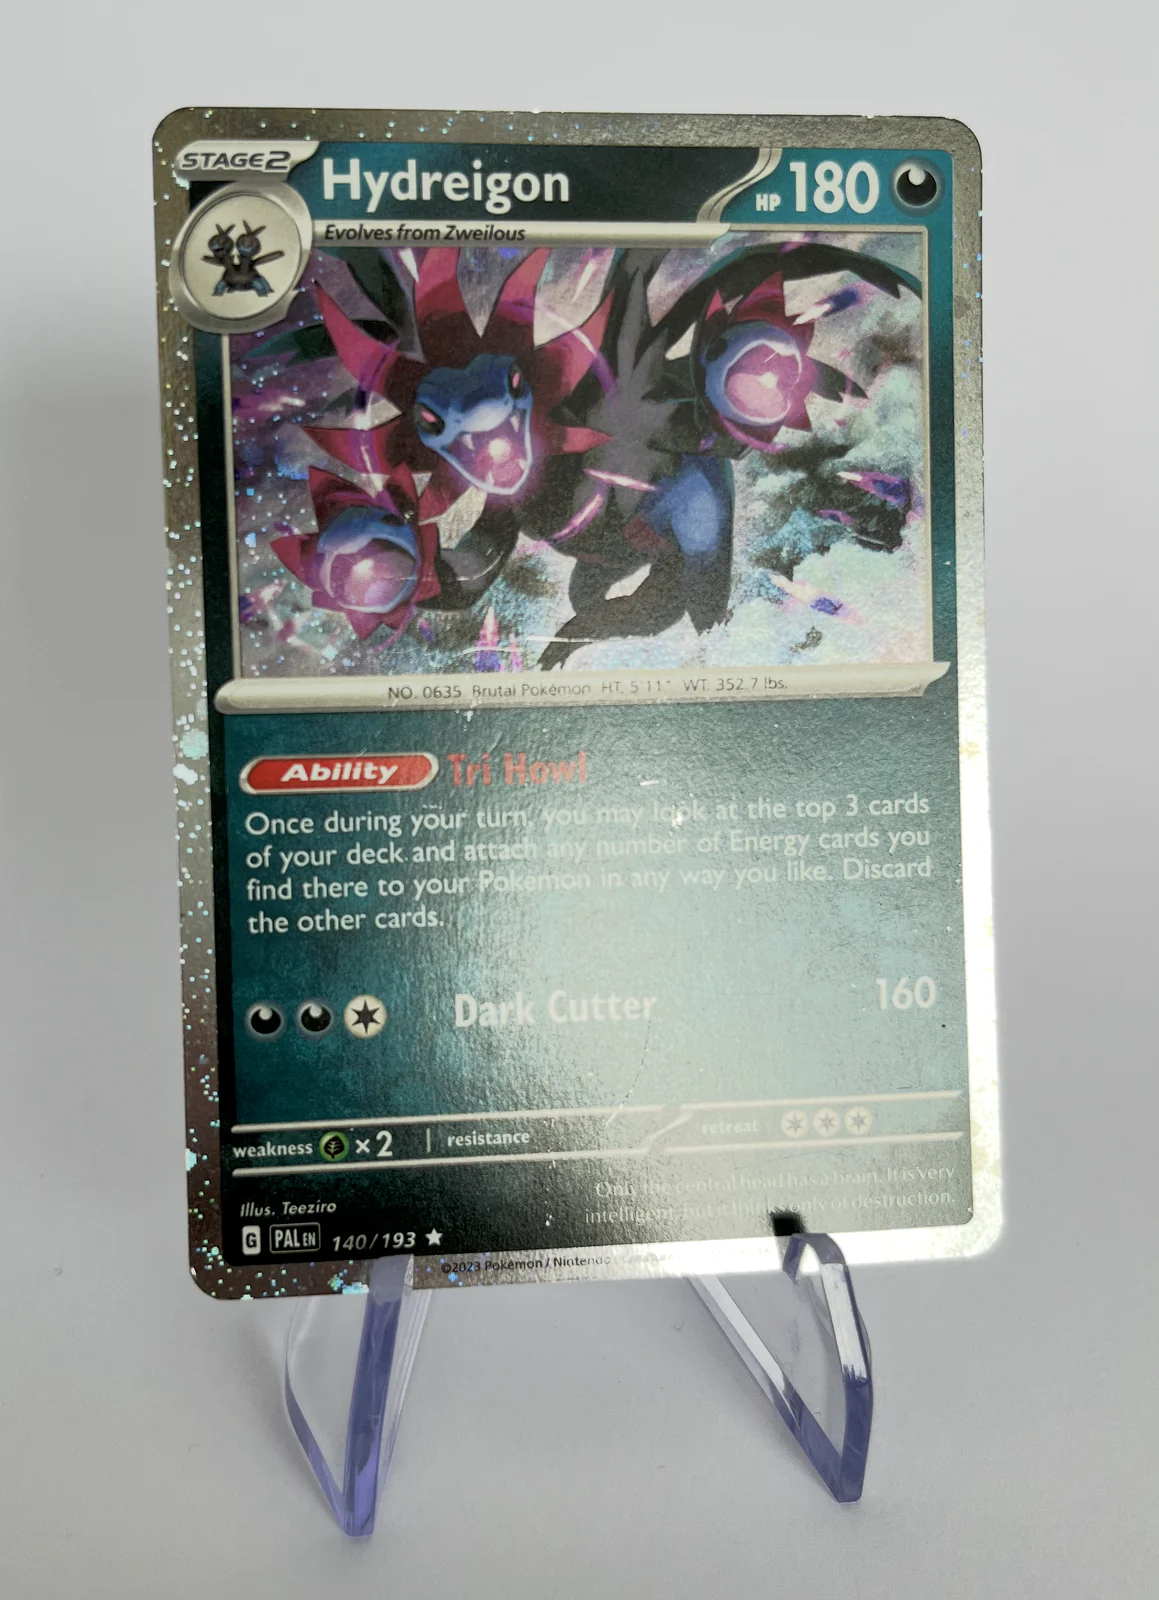
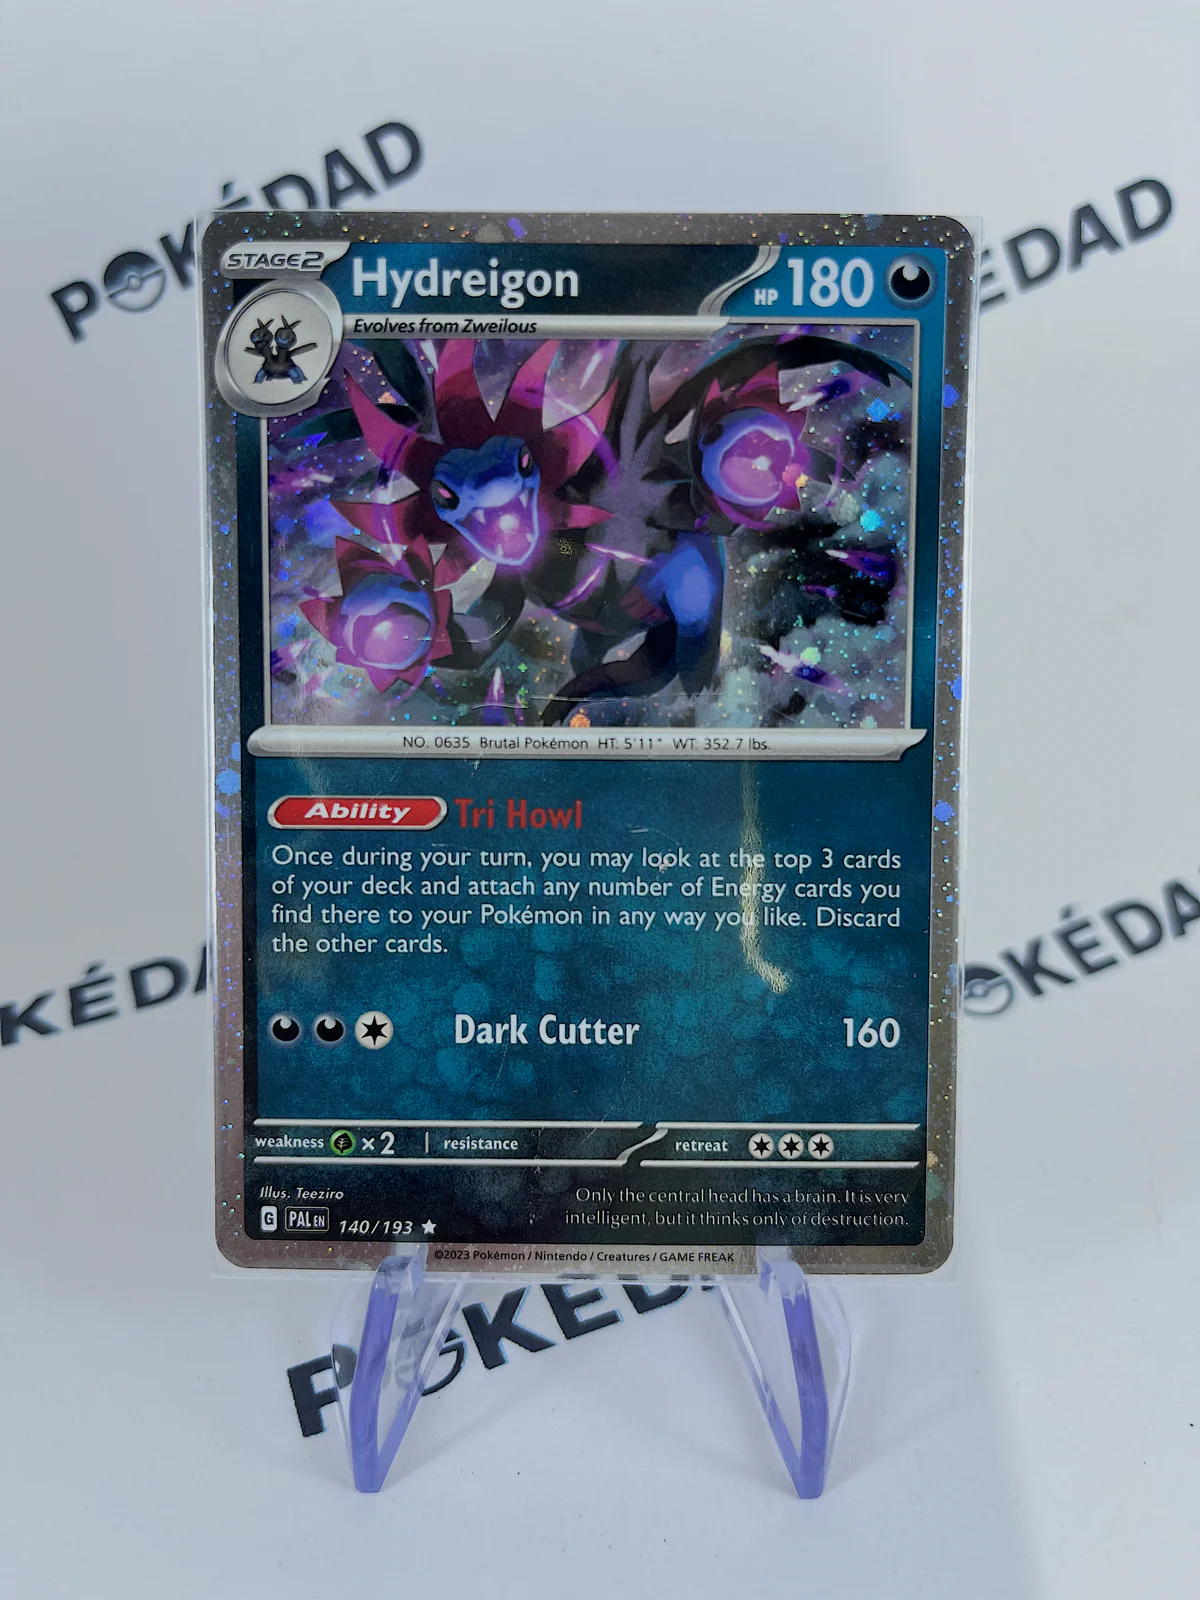
Import new card images

diff --git a/app/data/mega-evolution/mega-evolution-promos.ts b/app/data/mega-evolution/mega-evolution-promos.ts
@@ -1,0 +1,73 @@
+import {
+  CardCondition,
+  CardFinish,
+  CardLanguage,
+  CardRarity,
+  PokemonCard,
+  PokemonType,
+} from "../types";
+
+export const megaEvolutionPromos: PokemonCard[] = [
+  {
+    id: 2400035,
+    slug: "mega-emboar-ex-mep035",
+    name: "Mega Emboar ex",
+    series: "mega-evolution",
+    set: "mega-evolution-promos",
+    cardNumber: "MEP035",
+    rarity: CardRarity.Promo,
+    finish: CardFinish.Holo,
+    pokemonType: PokemonType.Fire,
+    language: CardLanguage.English,
+    condition: CardCondition.Mint,
+    price: 0,
+    stock: 1,
+    imageFront:
+      "/series/mega-evolution/mega-evolution-promos/MEP035-mega-emboar-ex.webp",
+    imageBack:
+      "/series/mega-evolution/mega-evolution-promos/MEP035-mega-emboar-ex-back.webp",
+    dateAdded: "2026-08-13",
+  },
+  {
+    id: 2400080,
+    slug: "fennekin-mep080",
+    name: "Fennekin",
+    series: "mega-evolution",
+    set: "mega-evolution-promos",
+    cardNumber: "MEP080",
+    rarity: CardRarity.Promo,
+    finish: CardFinish.Holo,
+    pokemonType: PokemonType.Fire,
+    language: CardLanguage.English,
+    condition: CardCondition.Mint,
+    price: 0,
+    stock: 1,
+    imageFront:
+      "/series/mega-evolution/mega-evolution-promos/MEP080-fennekin.webp",
+    imageBack:
+      "/series/mega-evolution/mega-evolution-promos/MEP080-fennekin-back.webp",
+    dateAdded: "2026-08-13",
+  },
+  {
+    id: 2400087,
+    slug: "binacle-mep087",
+    name: "Binacle",
+    series: "mega-evolution",
+    set: "mega-evolution-promos",
+    cardNumber: "MEP087",
+    rarity: CardRarity.Promo,
+    finish: CardFinish.Holo,
+    pokemonType: PokemonType.Fighting,
+    language: CardLanguage.English,
+    condition: CardCondition.Mint,
+    price: 0,
+    stock: 1,
+    imageFront:
+      "/series/mega-evolution/mega-evolution-promos/MEP087-binacle.webp",
+    imageBack:
+      "/series/mega-evolution/mega-evolution-promos/MEP087-binacle-back.webp",
+    dateAdded: "2026-08-13",
+  },
+];
+
+export default megaEvolutionPromos;

diff --git a/app/data/scarlet-violet/scarlet-violet-promos.ts b/app/data/scarlet-violet/scarlet-violet-promos.ts
@@ -72,9 +72,9 @@ export const scarletVioletPromos: PokemonCard[] = [
     language: CardLanguage.English,
     condition: CardCondition.Mint,
     price: 0,
-    stock: 0,
-    imageFront: SOLD_OUT_IMAGE,
-    imageBack: SOLD_OUT_IMAGE,
+    stock: 1,
+    imageFront: "/series/scarlet-violet/scarlet-violet-promos/004-mimikyu-ex-promo.webp",
+    imageBack: "/series/scarlet-violet/scarlet-violet-promos/004-mimikyu-ex-promo-back.webp",
     dateAdded: "2026-08-09",
   },
   {
@@ -2027,9 +2027,9 @@ export const scarletVioletPromos: PokemonCard[] = [
     language: CardLanguage.English,
     condition: CardCondition.Mint,
     price: 0,
-    stock: 0,
-    imageFront: SOLD_OUT_IMAGE,
-    imageBack: SOLD_OUT_IMAGE,
+    stock: 1,
+    imageFront: "/series/scarlet-violet/scarlet-violet-promos/119.webp",
+    imageBack: "/series/scarlet-violet/scarlet-violet-promos/119-back.webp",
     dateAdded: "2026-08-09",
   },
   {
@@ -2367,9 +2367,9 @@ export const scarletVioletPromos: PokemonCard[] = [
     language: CardLanguage.English,
     condition: CardCondition.Mint,
     price: 0,
-    stock: 0,
-    imageFront: SOLD_OUT_IMAGE,
-    imageBack: SOLD_OUT_IMAGE,
+    stock: 1,
+    imageFront: "/series/scarlet-violet/scarlet-violet-promos/svp-139.webp",
+    imageBack: "/series/scarlet-violet/scarlet-violet-promos/svp-139-back.webp",
     dateAdded: "2026-08-09",
   },
   {

diff --git a/app/data/cards.ts b/app/data/cards.ts
@@ -1,3 +1,4 @@
+import { baseSet } from "./base-series/base-set";
 import { baseSet2 } from "./base-series/base-set-2";
 import { fossil } from "./base-series/fossil";
 import { jungle } from "./base-series/jungle";
@@ -51,6 +52,7 @@ import { callOfLegends } from "./heartgold-soulsilver/call-of-legends";
 import { ascendedHeroes } from "./mega-evolution/ascended-heroes";
 import { chaosRising } from "./mega-evolution/chaos-rising";
 import { megaEvolution } from "./mega-evolution/mega-evolution";
+import { megaEvolutionPromos } from "./mega-evolution/mega-evolution-promos";
 import { perfectOrder } from "./mega-evolution/perfect-order";
 import { phantasmalFlames } from "./mega-evolution/phantasmal-flames";
 import { pitchBlack } from "./mega-evolution/pitch-black";
@@ -145,6 +147,7 @@ import { steamSiege } from "./xy/steam-siege";
 import type { PokemonCard } from "./types";
 
 const rawCards: PokemonCard[] = [
+  ...baseSet,
   ...baseSet2,
   ...fossil,
   ...jungle,
@@ -198,6 +201,7 @@ const rawCards: PokemonCard[] = [
   ...ascendedHeroes,
   ...chaosRising,
   ...megaEvolution,
+  ...megaEvolutionPromos,
   ...perfectOrder,
   ...phantasmalFlames,
   ...pitchBlack,

diff --git a/app/data/sword-shield/astral-radiance.ts b/app/data/sword-shield/astral-radiance.ts
@@ -10,6 +10,23 @@ import {
 const SOLD_OUT_IMAGE = "/placeholders/udsolgt.webp";
 const FIRST_CARD_ID = 2210001;
 
+const CARD_OVERRIDES: Record<string, Partial<PokemonCard>> = {
+  "083/189": {
+    stock: 1,
+    imageFront:
+      "/series/sword-shield/astral-radiance/083-reverse-holo.webp",
+    imageBack:
+      "/series/sword-shield/astral-radiance/083-reverse-holo-back.webp",
+  },
+  "113/189": {
+    stock: 1,
+    imageFront:
+      "/series/sword-shield/astral-radiance/113-reverse-holo.webp",
+    imageBack:
+      "/series/sword-shield/astral-radiance/113-reverse-holo-back.webp",
+  },
+};
+
 type SourceRarity = "C" | "UC" | "R" | "UR" | "HR";
 type CardSeed = readonly [
   cardNumber: string,
@@ -457,6 +474,7 @@ export const astralRadiance: PokemonCard[] = CARD_SEEDS.map(
     stock: 0,
     imageFront: SOLD_OUT_IMAGE,
     imageBack: SOLD_OUT_IMAGE,
+    ...CARD_OVERRIDES[cardNumber],
   })
 );
 

diff --git a/app/data/scarlet-violet/surging-sparks.ts b/app/data/scarlet-violet/surging-sparks.ts
@@ -720,9 +720,9 @@ export const surgingSparks: PokemonCard[] = [
     language: CardLanguage.English,
     condition: CardCondition.Mint,
     price: 0,
-    stock: 0,
-    imageFront: SOLD_OUT_IMAGE,
-    imageBack: SOLD_OUT_IMAGE,
+    stock: 1,
+    imageFront: "/series/scarlet-violet/surging-sparks/042-reverse-holo.webp",
+    imageBack: "/series/scarlet-violet/surging-sparks/042-reverse-holo-back.webp",
     dateAdded: "2026-07-31",
   },
   {
@@ -3797,9 +3797,9 @@ export const surgingSparks: PokemonCard[] = [
     language: CardLanguage.English,
     condition: CardCondition.Mint,
     price: 0,
-    stock: 0,
-    imageFront: SOLD_OUT_IMAGE,
-    imageBack: SOLD_OUT_IMAGE,
+    stock: 1,
+    imageFront: "/series/scarlet-violet/surging-sparks/223.webp",
+    imageBack: "/series/scarlet-violet/surging-sparks/223-back.webp",
     dateAdded: "2026-07-31",
   },
   {

diff --git a/app/data/sword-shield/black-star-promos.ts b/app/data/sword-shield/black-star-promos.ts
@@ -2648,9 +2648,9 @@ export const blackStarPromos: PokemonCard[] = [
     language: CardLanguage.English,
     condition: CardCondition.Mint,
     price: 0,
-    stock: 0,
-    imageFront: SOLD_OUT_IMAGE,
-    imageBack: SOLD_OUT_IMAGE,
+    stock: 1,
+    imageFront: "/series/sword-shield/black-star-promos/SWSH148.webp",
+    imageBack: "/series/sword-shield/black-star-promos/SWSH148-back.webp",
     dateAdded: "2026-08-08",
   },
   {
@@ -4280,9 +4280,9 @@ export const blackStarPromos: PokemonCard[] = [
     language: CardLanguage.English,
     condition: CardCondition.Mint,
     price: 0,
-    stock: 0,
-    imageFront: SOLD_OUT_IMAGE,
-    imageBack: SOLD_OUT_IMAGE,
+    stock: 1,
+    imageFront: "/series/sword-shield/black-star-promos/swsh239.webp",
+    imageBack: "/series/sword-shield/black-star-promos/swsh239-back.webp",
     dateAdded: "2026-08-08",
   },
   {

diff --git a/app/data/scarlet-violet/base.ts b/app/data/scarlet-violet/base.ts
@@ -4034,9 +4034,9 @@ export const scarletVioletBase: PokemonCard[] = [
     language: CardLanguage.English,
     condition: CardCondition.Mint,
     price: 0,
-    stock: 0,
-    imageFront: SOLD_OUT_IMAGE,
-    imageBack: SOLD_OUT_IMAGE,
+    stock: 1,
+    imageFront: "/series/scarlet-violet/base/237.webp",
+    imageBack: "/series/scarlet-violet/base/237-back.webp",
     dateAdded: "2026-08-01",
   },
   {
@@ -4068,9 +4068,9 @@ export const scarletVioletBase: PokemonCard[] = [
     language: CardLanguage.English,
     condition: CardCondition.Mint,
     price: 0,
-    stock: 0,
-    imageFront: SOLD_OUT_IMAGE,
-    imageBack: SOLD_OUT_IMAGE,
+    stock: 1,
+    imageFront: "/series/scarlet-violet/base/239.webp",
+    imageBack: "/series/scarlet-violet/base/239-back.webp",
     dateAdded: "2026-08-01",
   },
   {

diff --git a/app/data/base-series/base-set.ts b/app/data/base-series/base-set.ts
@@ -1,0 +1,31 @@
+import {
+  CardCondition,
+  CardFinish,
+  CardLanguage,
+  CardRarity,
+  PokemonCard,
+  PokemonType,
+} from "../types";
+
+export const baseSet: PokemonCard[] = [
+  {
+    id: 900012,
+    slug: "ninetales-012",
+    name: "Ninetales",
+    series: "base-series",
+    set: "base-set",
+    cardNumber: "012/102",
+    rarity: CardRarity.Rare,
+    finish: CardFinish.Holo,
+    pokemonType: PokemonType.Fire,
+    language: CardLanguage.English,
+    condition: CardCondition.Poor,
+    price: 0,
+    stock: 1,
+    imageFront: "/series/base-series/base-set/012-ninetales-holo.webp",
+    imageBack: "/series/base-series/base-set/012-ninetales-holo-back.webp",
+    dateAdded: "2026-08-13",
+  },
+];
+
+export default baseSet;

diff --git a/app/data/sword-shield/shining-fates.ts b/app/data/sword-shield/shining-fates.ts
@@ -1309,6 +1309,25 @@ export const shiningFates: PokemonCard[] = [
     imageBack: SOLD_OUT_IMAGE,
     dateAdded: "2026-08-02",
   },
+  {
+    id: 2105100,
+    slug: "grookey-sv004",
+    name: "Grookey",
+    series: "sword-shield",
+    set: "shining-fates",
+    cardNumber: "SV004/SV122",
+    rarity: CardRarity.Rare,
+    finish: CardFinish.Holo,
+    pokemonType: PokemonType.Grass,
+    language: CardLanguage.English,
+    condition: CardCondition.Mint,
+    price: 0,
+    stock: 1,
+    imageFront: "/series/sword-shield/shining-fates/SV004-grookey-holo.webp",
+    imageBack:
+      "/series/sword-shield/shining-fates/SV004-grookey-holo-back.webp",
+    dateAdded: "2026-08-13",
+  },
 ];
 
 export default shiningFates;

diff --git a/app/data/sets.ts b/app/data/sets.ts
@@ -1231,6 +1231,16 @@ export const sets: Record<string, PokemonSet> = {
     logo: "/series/mega-evolution/mega-evolution/logo.webp",
     symbol: "/placeholders/udsolgt.webp",
   },
+  "mega-evolution-promos": {
+    slug: "mega-evolution-promos",
+    name: "MEP Black Star Promos",
+    series: "mega-evolution",
+    additionalSeries: ["promos"],
+    totalCards: 120,
+    releaseDate: "2025-09-26",
+    logo: "/logo/pokedad-logo.webp",
+    symbol: "/placeholders/udsolgt.webp",
+  },
   "phantasmal-flames": {
     slug: "phantasmal-flames",
     name: "Phantasmal Flames",

diff --git a/app/data/promos/mcdonalds.ts b/app/data/promos/mcdonalds.ts
@@ -252,4 +252,16 @@ export const mcdonaldsDragonDiscovery2025 = createCards(
   "mcdonalds-dragon-discovery-2025",
   15,
   2325001,
+).map((card) =>
+  card.cardNumber === "10/15"
+    ? {
+        ...card,
+        finish: CardFinish.Holo,
+        stock: 1,
+        imageFront:
+          "/series/promos/mcdonalds-dragon-discovery-2025/010-hydreigon-holo.webp",
+        imageBack:
+          "/series/promos/mcdonalds-dragon-discovery-2025/010-hydreigon-holo-back.webp",
+      }
+    : card
 );

diff --git a/app/data/scarlet-violet/stellar-crown.ts b/app/data/scarlet-violet/stellar-crown.ts
@@ -1143,9 +1143,9 @@ export const stellarCrown: PokemonCard[] = [
     language: CardLanguage.English,
     condition: CardCondition.Mint,
     price: 0,
-    stock: 0,
-    imageFront: SOLD_OUT_IMAGE,
-    imageBack: SOLD_OUT_IMAGE,
+    stock: 1,
+    imageFront: "/series/scarlet-violet/stellar-crown/067-reverse-holo.webp",
+    imageBack: "/series/scarlet-violet/stellar-crown/067-reverse-holo-back.webp",
     dateAdded: "2026-07-31",
   },
   {
